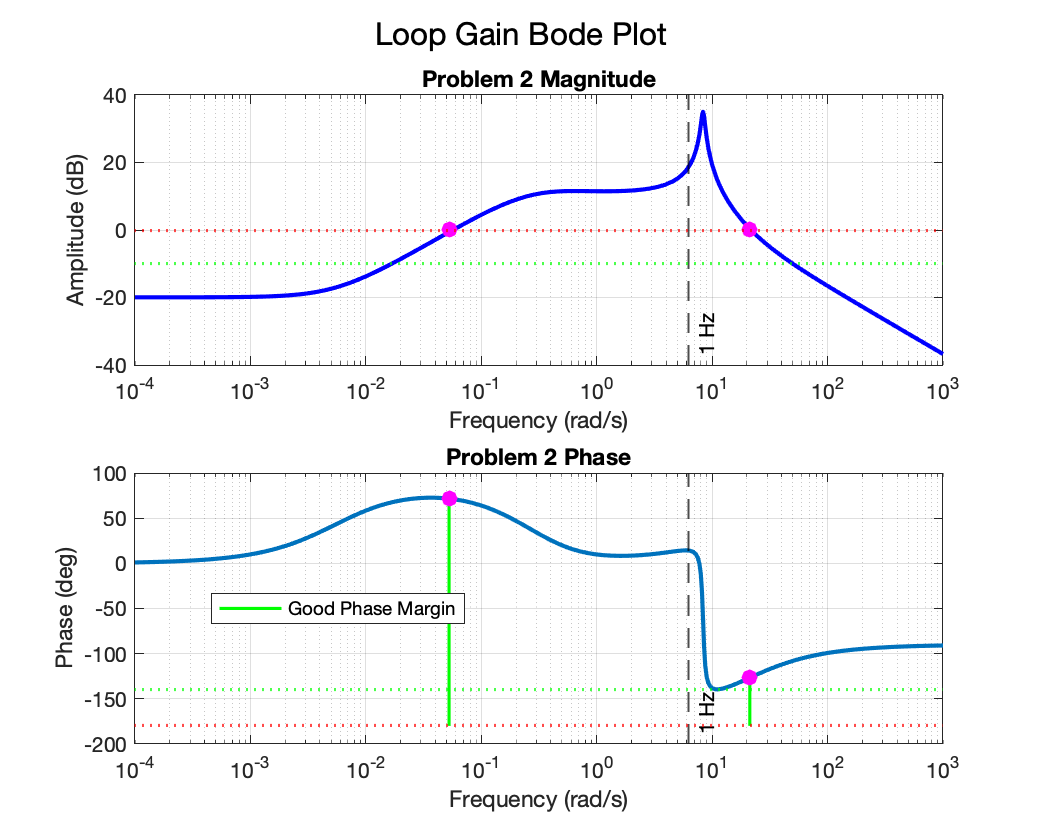
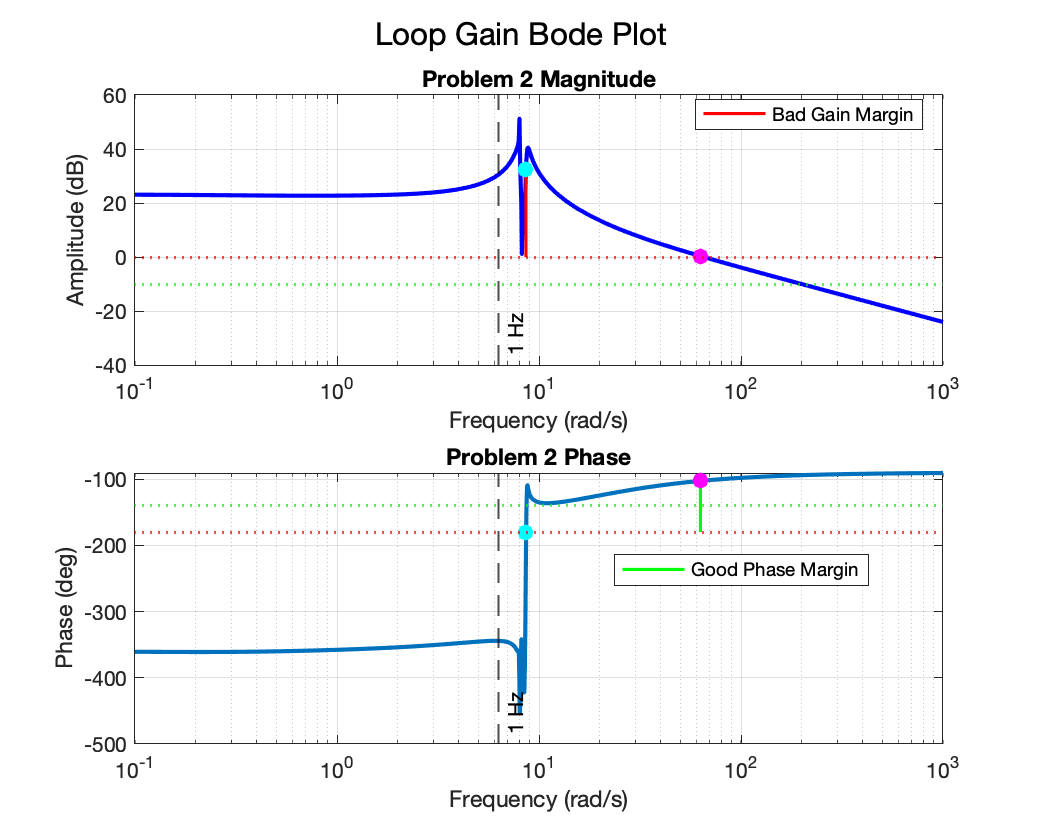
Corrected Plotting Function

diff --git a/Project2/problem2.m b/Project2/problem2.m
@@ -27,31 +27,33 @@ K = place(A,B,Desired_poles);
 %% Find Loop Gain, Closed Loop TF, and TF from Reference to Plant Input
 % Loop Gain
 s = tf('s');
-sys_tf = ss(A, B, K, 0);
-Lg_neg = tf(sys_tf);  
+Lg_neg = K * inv(s * eye(size(A)) - A) * B;
 
 % Closed Loop TF
-Acl = A - B*K;
-F =  pinv(C * (Acl \ B));
-Bcl = B*F;
-Cl_Tf = tf(ss(Acl, Bcl, C, 0));
+F =  inv(C*inv(-A+B*K)*B);
+Cl_Tf = C*inv(s*eye(size(A))-A+B*K)*B*F;
 
-% Reference input to Plant Input
+% Reference to Plant Input
 Cl_u2r = inv(1+K*inv(s*eye(size(A))-A)*B)*F;
 
 %% Plot Bode Plot for Loop gain, Closed Loop, and Reference to Plant Input Response
-CL_bode_plot(Lg_neg, 'Figures/Problem2/', "Problem 2")
+CL_bode_plot(Lg_neg, Cl_Tf ,'Figures/Problem2/', "Problem 2");
+
+% Loop Gain Bode
 % figure;
 % bode(Lg_neg);
 % grid on; % Turn on grid
 % title('Bode Plot of Negative Loop Gain'); % Add a title
 % xlabel('Frequency (rad/s)'); % X-axis label
+% 
+% % Closed Loop Bode
 % figure;
 % bode(Cl_Tf);
 % grid on; % Turn on grid
 % title('Bode Plot of Closed Loop TF'); % Add a title
 % xlabel('Frequency (rad/s)'); % X-axis label
 
+% Reference to Plant Input
 figure;
 bode(Cl_u2r);
 grid on; % Turn on grid
@@ -163,7 +165,7 @@ function J = pole_bandwidth_cost(x, A, B, C)
         pm_penalty = max(0, PM_target - PM)^2;
 
         % Final cost: bandwidth deviation + notch penalty
-        J = 10*bw_penalty + 0*notch_penalty + 0.001*input_penalty + 10*gm_penalty + 10*deg2rad(pm_penalty);
+        J = 10*bw_penalty + 0*notch_penalty + 0.01*input_penalty + 10*gm_penalty + 10*deg2rad(pm_penalty);
         
     catch
         J = 1e6;

diff --git a/Project2/Functions/CL_bode_plot.m b/Project2/Functions/CL_bode_plot.m
@@ -1,4 +1,4 @@
-function CL_bode_plot(Lg, save_location, prob_name)
+function CL_bode_plot(Lg, Cl_Tf ,save_location, prob_name)
 
     if ~isstruct(Lg)
         % Compute the frequency response
@@ -7,14 +7,13 @@ function CL_bode_plot(Lg, save_location, prob_name)
         mag_lg = squeeze(mag_lg);
 
         % Calculate the closed loop response
-        T = feedback(Lg, 1);
-        [mag_cl, phase_cl, wout_cl] = bode(T);
+        [mag_cl, phase_cl,wout_cl] = bode(Cl_Tf);
+        mag_cl = squeeze(mag_cl);  
         phase_cl = squeeze(phase_cl);
-        mag_cl = squeeze(mag_cl);
 
         % Calculate the closed loop bandwidth
-        closed_loop_bandwidth = bandwidth(T);
-
+        closed_loop_bandwidth = bandwidth(Cl_Tf);
+  
     else
         mag_lg = Lg.lg_mag;
         phase_lg = Lg.lg_phase;
